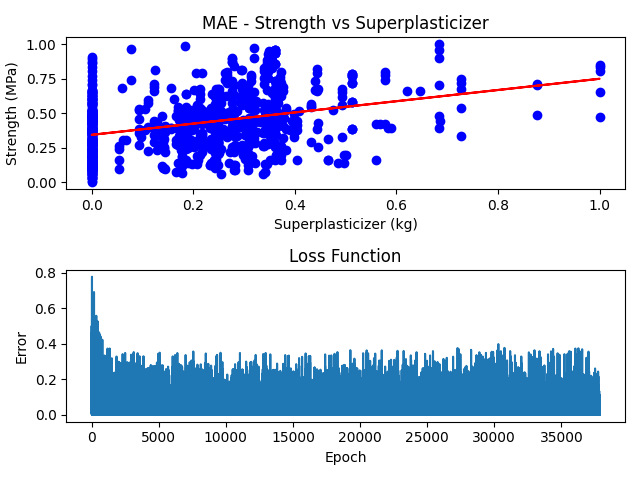
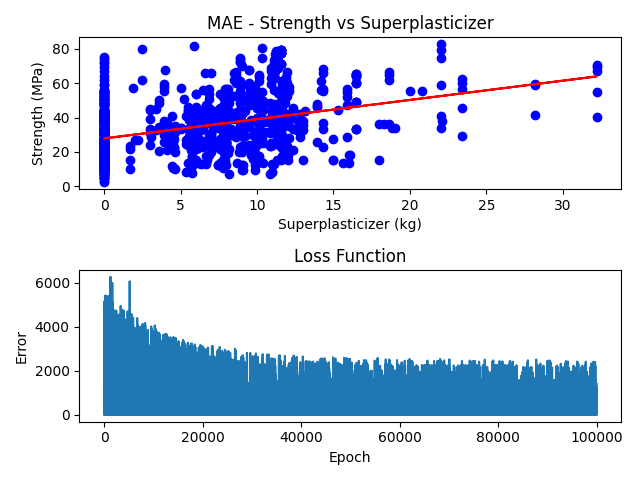
Data gather

diff --git a/univariable.py b/univariable.py
@@ -1,3 +1,4 @@
+import time
 import pandas as pd
 import numpy as np
 from random import randint
@@ -8,8 +9,8 @@ from sklearn.metrics import (
     mean_squared_error,
 )
 
-PROCESSING_TYPE = "SCALED"
-# PROCESSING_TYPE = "NORMAL"
+# PROCESSING_TYPE = "SCALED"
+PROCESSING_TYPE = "NORMAL"
 # ALGO = "MSE"
 ALGO = "MAE"
 
@@ -26,25 +27,25 @@ DONT_PROCESS = [
 
 settings = {
     "NORMAL_MSE": {
-        "Cement": [100000, 0.001],
-        "BlastFurnaceSlag": [500000, 0.001],
-        "FlyAsh": [500000, 0.05],
-        "Water": [500000, 0.005],
-        "Superplasticizer": [500000, 0.005],
-        "CoarseAgg": [500000, 0.00005],
-        "FineAgg": [500000, 0.0005],
-        "Age": [500000, 0.0005],
+        "Cement": [100000, 0.00001],
+        "BlastFurnaceSlag": [100000, 0.01],
+        "FlyAsh": [100000, 0.0099],
+        "Water": [100000, 0.00001],
+        "Superplasticizer": [100000, 0.05],
+        "CoarseAgg": [100000, 0.0000001],
+        "FineAgg": [100000, 0.000001],
+        "Age": [100000, 0.005],
         "Strength": [],
     },
     "NORMAL_MAE": {
         "Cement": [100000, 0.005],
         "BlastFurnaceSlag": [100000, 0.0000039],
-        "FlyAsh": [500000, 0.5],
+        "FlyAsh": [100000, 0.5],
         "Water": [100000, 0.000029],
         "Superplasticizer": [100000, 2.5],
         "CoarseAgg": [100000, 0.00005],
-        "FineAgg": [300000, 0.000009],
-        "Age": [500000, 0.5],
+        "FineAgg": [100000, 0.000009],
+        "Age": [100000, 0.5],
         "Strength": [],
     },
     "SCALED_MSE": {

diff --git a/multivariable.py b/multivariable.py
@@ -1,3 +1,4 @@
+import time
 import pandas as pd
 import numpy as np
 from random import randint
@@ -14,14 +15,14 @@ np.set_printoptions(linewidth=150)
 # Globals
 PROCESSING_TYPE = "SCALED"
 # PROCESSING_TYPE = "NORMAL"
-# ALGO = "MSE"
-ALGO = "MAE"
+ALGO = "MSE"
+# ALGO = "MAE"
 
 settings = {
-    "SCALED_MSE": [8000, 0.1],
-    "SCALED_MAE": [8000, 0.1],
-    "NORMAL_MSE": [50000, 0.0001],
-    "NORMAL_MAE": [50000, 0.0001],
+    "SCALED_MSE": [100000, 0.1],
+    "SCALED_MAE": [100000, 0.1],
+    "NORMAL_MSE": [100000, 0.0001],
+    "NORMAL_MAE": [100000, 0.0001],
 }
 
 labels = [
@@ -85,7 +86,10 @@ class SGD:
         self.algo = algo
 
         # Train the model
+        start = time.time()
         self.w = self.train_SGD_model(epochs, learnRate)
+        end = time.time()
+        print(f"Training Time = {end - start}")
 
     """
     Stochastic Gradient Descent Algorithm 
@@ -144,7 +148,7 @@ class SGD:
         plt.ylabel("Error")
         plt.title("Loss Function")
         plt.plot(xCosts, yCosts)
-        plt.savefig(f"./imgs/{PROCESSING_TYPE}_{ALGO}_multi")
+        plt.savefig(f"./imgs/M_{ALGO}_{PROCESSING_TYPE}")
 
     """
     Inputs:
